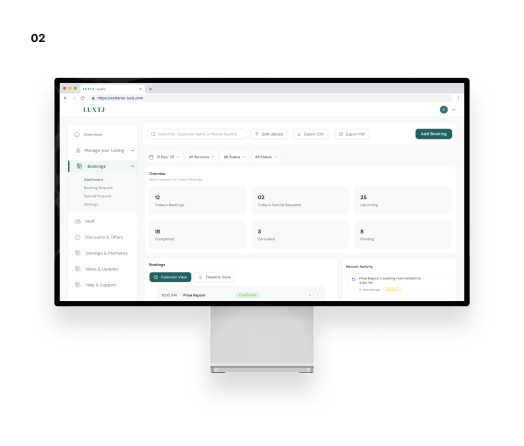
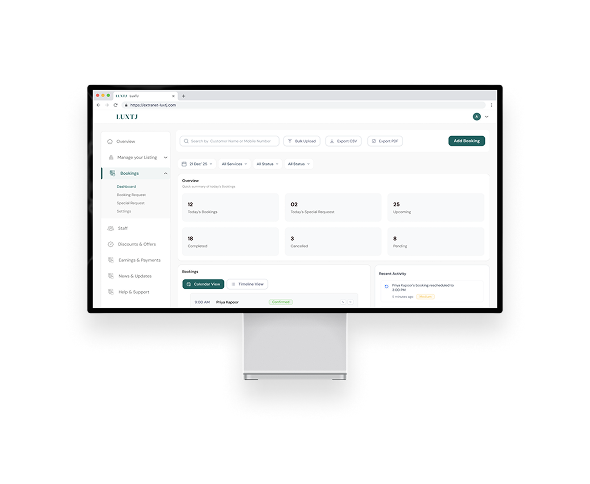
Improve project showcase card spacing - increase padding and margins to prevent overlap

diff --git a/app/refinements-creative.css b/app/refinements-creative.css
@@ -584,7 +584,7 @@
 
 /* Projects Showcase - Full-Width Case Study Cards */
 .projects-showcase {
-  padding: 120px 0;
+  padding: 180px 0 120px 0;
   background: #ffffff;
 }
 
@@ -596,12 +596,12 @@
   align-items: center;
   background: #f3f3f3;
   border-radius: 21px;
-  padding: 38px 48px;
+  padding: 48px 60px;
   transition: all 0.3s ease;
   cursor: pointer;
   box-shadow: 0 18px 30px rgba(0, 0, 0, 0.17);
-  min-height: 360px;
-  margin-bottom: 48px;
+  min-height: 380px;
+  margin-bottom: 80px;
 }
 
 .project-showcase-card:last-child {
